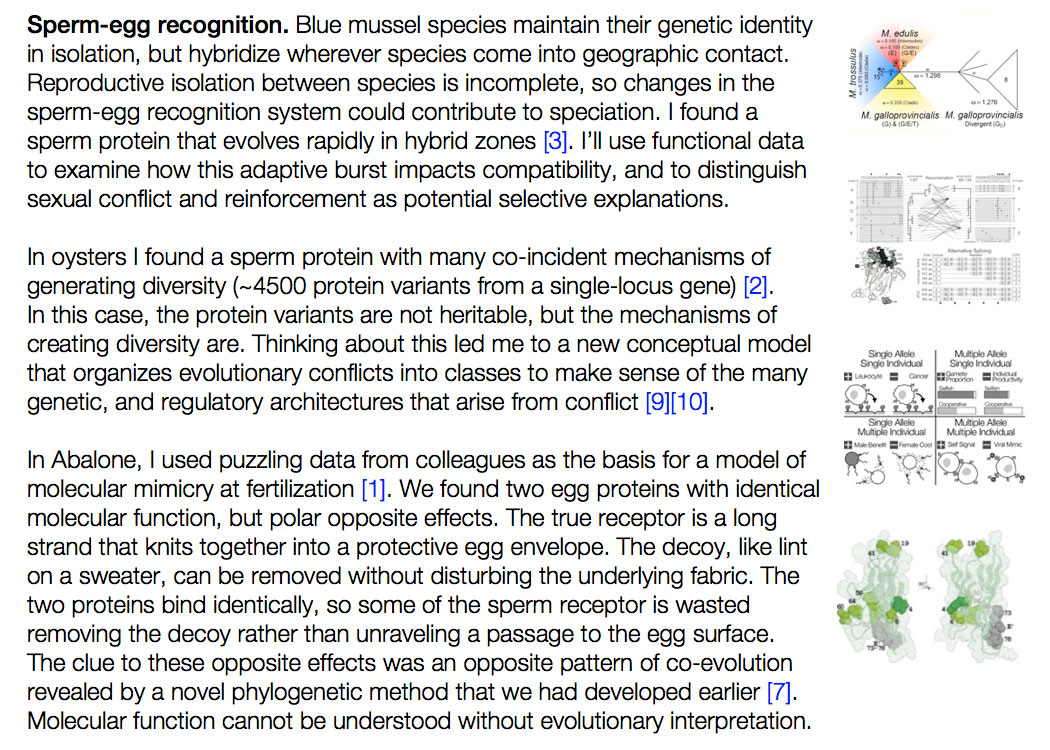
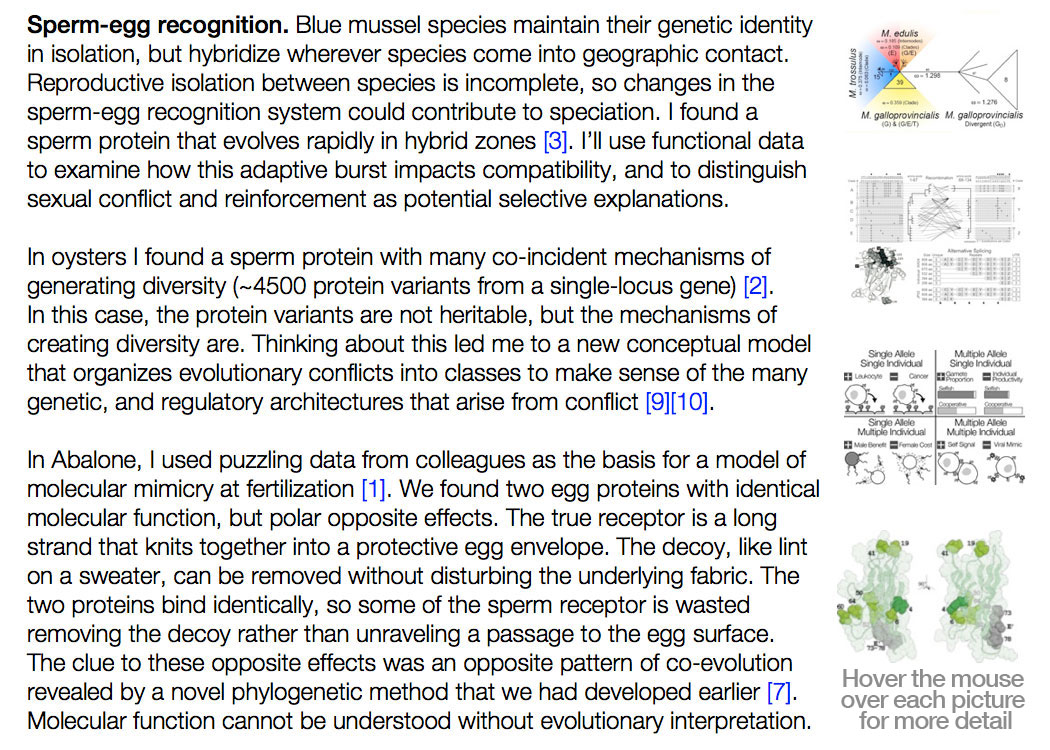
Add files via upload

Changed region(s): [[0.7924, 0.8893, 0.9752, 0.9813]]

diff --git a/index.html b/index.html
@@ -2,10 +2,36 @@
   <head>
     <title>Stevan Springer - Research</title>
   </head>
+
+<!-- Global site tag (gtag.js) - Google Analytics -->
+<script async src="https://www.googletagmanager.com/gtag/js?id=UA-109980821-2"></script>
+<script>
+  window.dataLayer = window.dataLayer || [];
+  function gtag(){dataLayer.push(arguments);}
+  gtag('js', new Date());
+
+  gtag('config', 'UA-109980821-2');
+</script>
+
  
 <link rel="prefetch" href="intro-text.jpg" />
+
 <link rel="prefetch" href="immune-text.jpg" />
+<link rel="prefetch" href="immune-Neu5Gc-1.jpg" />
+<link rel="prefetch" href="immune-Neu5Gc-2.jpg" />
+<link rel="prefetch" href="immune-Neu5Gc-3.jpg" />
+<link rel="prefetch" href="immune-Neu5Gc-4.jpg" />
+<link rel="prefetch" href="immune-CD33-1.jpg" />
+<link rel="prefetch" href="immune-CD33-2.jpg" />
+<link rel="prefetch" href="immune-CD33-3.jpg" />
+<link rel="prefetch" href="immune-CD33-4.jpg" />
+<link rel="prefetch" href="immune-NWM-1.jpg" />
+<link rel="prefetch" href="immune-NWM-2.jpg" />
+<link rel="prefetch" href="immune-Loop-1.jpg" />
+<link rel="prefetch" href="immune-Loop-2.jpg" />
+
 <link rel="prefetch" href="gamete-text.jpg" />
+
 <link rel="prefetch" href="adaptation-text.jpg" />
 
 <body> 
@@ -25,22 +51,38 @@
     <area target="_self" alt="Glycan evolution in response to collaboration conflict and constraint Springer SA, Gagneux P (2013) Journal of Biological Chemistry 28:6904-6911" title="Glycan evolution in response to collaboration conflict and constraint Springer SA, Gagneux P (2013) Journal of Biological Chemistry 28:6904-6911" href="https://goo.gl/TTV3wk" coords="894,617,915,642" shape="rect">
 </map>
 
-<BR> 
+<p><BR><hr width="1050" align="left"><BR></p>
 
 <img src="immune-text.jpg" name="immune" usemap="#immune-map">
 
 <map name="immune-map">
-    <area target="" alt="" title="" href="" coords="835,15,1050,165" shape="rect" onMouseOver="immune.src='gamete-text.jpg'"	onMouseOut="immune.src='immune-text.jpg'"/>
-    <area target="" alt="" title="" href="" coords="835,165,1050,325" shape="rect">
-    <area target="" alt="" title="" href="" coords="835,325,1050,500" shape="rect" onMouseOver="immune.src='gamete-text.jpg'"	onMouseOut="immune.src='immune-text.jpg'"/>
-    <area target="" alt="" title="" href="" coords="835,500,1050,675" shape="rect">
+    <area target="" alt="" title="" href="" coords="820,0,1050,20"    shape="rect" onMouseOver="immune.src='immune-text.jpg'"	onMouseOut="immune.src='immune-text.jpg'"/>
+    <area target="" alt="" title="" href="" coords="820,730,1050,750" shape="rect" onMouseOver="immune.src='immune-text.jpg'"	onMouseOut="immune.src='immune-text.jpg'"/>
+    <area target="" alt="" title="" href="" coords="820,0,840,750"    shape="rect" onMouseOver="immune.src='immune-text.jpg'"	onMouseOut="immune.src='immune-text.jpg'"/>
+    <area target="" alt="" title="" href="" coords="1030,0,1050,750"  shape="rect" onMouseOver="immune.src='immune-text.jpg'"	onMouseOut="immune.src='immune-text.jpg'"/>
+
+    <area target="" alt="" title="" href="" coords="840,15,940,90"  shape="rect" onMouseOver="immune.src='immune-Neu5Gc-1.jpg'"	onMouseOut="immune.src='immune-text.jpg'"/>
+    <area target="" alt="" title="" href="" coords="940,15,1030,90" shape="rect" onMouseOver="immune.src='immune-Neu5Gc-2.jpg'"	onMouseOut="immune.src='immune-text.jpg'"/>
+    <area target="" alt="" title="" href="" coords="840,90,940,165"  shape="rect" onMouseOver="immune.src='immune-Neu5Gc-3.jpg'"	onMouseOut="immune.src='immune-text.jpg'"/>
+    <area target="" alt="" title="" href="" coords="940,90,1030,165" shape="rect" onMouseOver="immune.src='immune-Neu5Gc-4.jpg'"	onMouseOut="immune.src='immune-text.jpg'"/>
+
+    <area target="" alt="" title="" href="" coords="840,165,940,250"  shape="rect" onMouseOver="immune.src='immune-CD33-1.jpg'"	onMouseOut="immune.src='immune-text.jpg'"/>
+    <area target="" alt="" title="" href="" coords="940,165,1030,250" shape="rect" onMouseOver="immune.src='immune-CD33-2.jpg'"	onMouseOut="immune.src='immune-text.jpg'"/>
+    <area target="" alt="" title="" href="" coords="840,250,940,325"  shape="rect" onMouseOver="immune.src='immune-CD33-3.jpg'"	onMouseOut="immune.src='immune-text.jpg'"/>
+    <area target="" alt="" title="" href="" coords="940,250,1030,325" shape="rect" onMouseOver="immune.src='immune-CD33-4.jpg'"	onMouseOut="immune.src='immune-text.jpg'"/>
+
+    <area target="" alt="" title="" href="" coords="840,325,940,500"  shape="rect" onMouseOver="immune.src='immune-NWM-1.jpg'"	onMouseOut="immune.src='immune-text.jpg'"/>
+    <area target="" alt="" title="" href="" coords="940,325,1030,500" shape="rect" onMouseOver="immune.src='immune-NWM-2.jpg'"	onMouseOut="immune.src='immune-text.jpg'"/>
+
+    <area target="" alt="" title="" href="" coords="840,500,940,730"  shape="rect" onMouseOver="immune.src='immune-Loop-1.jpg'"	onMouseOut="immune.src='immune-text.jpg'"/>
+    <area target="" alt="" title="" href="" coords="940,500,1030,730" shape="rect" onMouseOver="immune.src='immune-Loop-2.jpg'"	onMouseOut="immune.src='immune-text.jpg'"/>
 
     <area target="_self" alt="Sexual selection by female immunity against paternal antigens can fix loss of function alleles Ghaderi D★, Springer SA ★, Ma F, Coehn M, Secrest P, Taylor R, Varki A, Gagneux P (2011) PNAS 108:17443-17448" title="Sexual selection by female immunity against paternal antigens can fix loss of function alleles Ghaderi D★, Springer SA ★, Ma F, Coehn M, Secrest P, Taylor R, Varki A, Gagneux P (2011) PNAS 108:17443-17448" href="https://goo.gl/ckadXU" coords="476,76,507,102" shape="rect">
     <area target="_self" alt="Human-specific alleles of CD33 and other genes protect against postreproductive cognitive decline Schwartz F★, Springer SA ★, Altheide T, Varki NM, Gagneux P, Varki A (2016) PNAS 113:74-79" title="Human-specific alleles of CD33 and other genes protect against postreproductive cognitive decline Schwartz F★, Springer SA ★, Altheide T, Varki NM, Gagneux P, Varki A (2016) PNAS 113:74-79" href="https://goo.gl/WNYUad" coords="691,221,723,246" shape="rect">
     <area target="_self" alt="Parallel evolution of a self signal: humans and new world monkeys independently lost  the cell surface sugar Neu5Gc Springer SA, Diaz SL, Gagneux P (2014) Immunogenetics 66:671-674" title="Parallel evolution of a self signal: humans and new world monkeys independently lost  the cell surface sugar Neu5Gc Springer SA, Diaz SL, Gagneux P (2014) Immunogenetics 66:671-674" href="https://goo.gl/ez4PUV" coords="754,277,781,304" shape="rect">
 </map>
 
-<BR>
+<p><BR><hr width="1050" align="left"><BR></p>
 
 <img src="gamete-text.jpg" name="gamete" usemap="#gamete-map">
 
@@ -58,7 +100,7 @@
     <area target="_self" alt="Beyond the phenotypic gambit: molecular behavioral ecology and the evolution of genetic architecture Springer SA, Crespi BJ, Swanson WJ (2011) Molecular Ecology 20:2240-2257" title="Beyond the phenotypic gambit: molecular behavioral ecology and the evolution of genetic architecture Springer SA, Crespi BJ, Swanson WJ (2011) Molecular Ecology 20:2240-2257" href="https://goo.gl/Xi471y" coords="670,389,710,418" shape="rect">
 </map>
 
-<BR>
+<p><BR><hr width="1050" align="left"><BR></p>
 
 <img src="adaptation-text.jpg" usemap="#adaptation-map">
 
@@ -67,7 +109,7 @@
     <area target="" alt="Separating spandrels from phenotypic targets of selection in adaptive molecular evolution Springer SA, Manhart M, Morozov AV (2016) Evolutionary Biology: Biodiversification from Genotype to Phenotype, Chapter 18. P. Pontarotti (ed)" title="Separating spandrels from phenotypic targets of selection in adaptive molecular evolution Springer SA, Manhart M, Morozov AV (2016) Evolutionary Biology: Biodiversification from Genotype to Phenotype, Chapter 18. P. Pontarotti (ed)" href="https://goo.gl/TQS6A8" coords="738,295,779,323" shape="rect">
 </map>
 
-<BR>
+<p><BR><BR></p>
 
 </body>
 </html>
